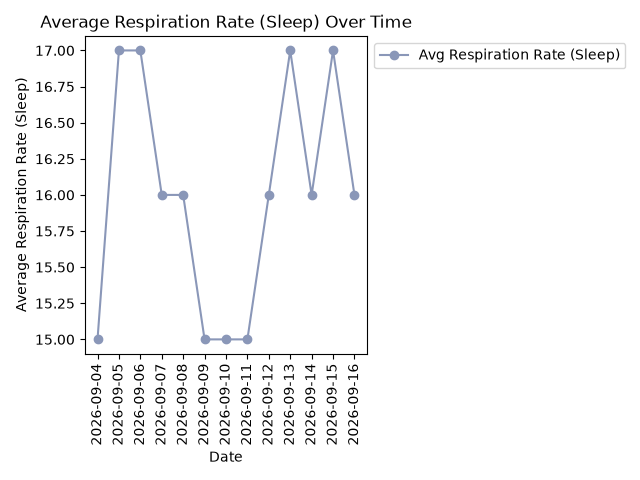
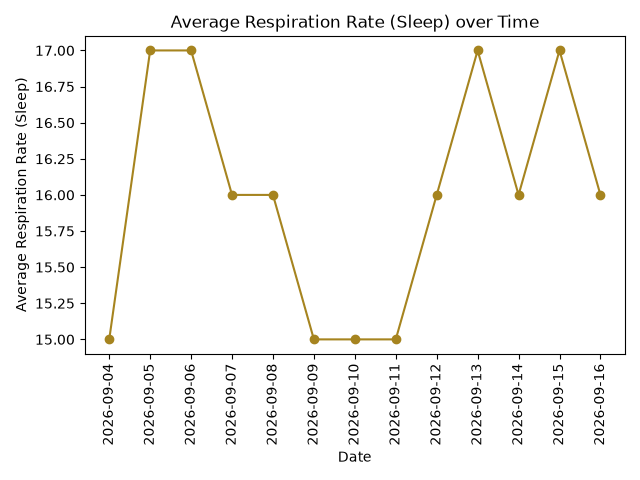
E.3: Upates to Visualizations and desciriptions

diff --git a/dataprep.html b/dataprep.html
@@ -123,11 +123,11 @@
   <div class="figure-grid">
     <figure class="figure">
   <img src="images/dataprep/raw-data-sample.png" alt="Sample of raw Garmin data showing missing SpO2 values" style="width:100%; display:block; border-radius:4px;">
-  <figcaption>Raw data: SpO2 columns show missing values for the first several days, before that tracking setting was enabled.</figcaption>
+  <figcaption>Raw data: Initially tracking was not enabled for the SpO2 metric. Additionally, for the first few days, there was not enough data to calculate the HRV average.</figcaption>
 </figure>
     <figure class="figure">
   <img src="images/dataprep/cleaned-data-sample.png" alt="Sample of cleaned Garmin data with no missing values" style="width:100%; display:block; border-radius:4px;">
-  <figcaption>Cleaned data: SpO2 columns removed, hrv weekly avg backfilled — no missing values remain.</figcaption>
+  <figcaption>Cleaned data: SpO2 columns were removed and HRV weekly avg was backfilled; no remaining missing values.</figcaption>
 </figure>
   </div>
 
@@ -142,27 +142,35 @@
   <div class="figure-grid">
     <figure class="figure">
   <img src="images/dataprep/sleep_stage_over_time_bar.png" alt="Stacked bar chart of sleep stage duration by night" style="width:100%; display:block; border-radius:4px;">
-  <figcaption>Light sleep makes up the largest share of most nights, with REM and deep sleep varying more night to night. Total sleep duration itself also swings noticeably, from under 5 hours to nearly 10.</figcaption>
+  <figcaption>The largest portion of most nights was classified as "Light Sleep". "REM" and "Deep Sleep" varied more night to night. Total sleep also has a wide range from under 5 hours to nearly 10.</figcaption>
 </figure>
     <figure class="figure">
-  <img src="images/dataprep/hrv_over_time_line.png" alt="Line chart of overnight HRV over time" style="width:100%; display:block; border-radius:4px;">
-  <figcaption>Overnight HRV ranges from 29 to 64 ms across the tracked period, with a clear peak on 9/9 — a night with zero recorded sleep interruptions and the highest REM total. The lowest value (9/13) corresponds to a night with heavy fragmentation and minimal REM.</figcaption>
+  <img src="images/dataprep/hrv_vs_next_day_stress_scatter.png" alt="Scatter plot of overnight HRV vs next-day average stress" style="width:100%; display:block; border-radius:4px;">
+  <figcaption>Data points show a general decrease in next-day stress as overnight HRV increases, however as more data is collected, this potential trend may change.</figcaption>
 </figure>
     <figure class="figure">
   <img src="images/dataprep/total_calories_vs_hrv_scatter.png" alt="Scatter plot of total calories versus overnight HRV" style="width:100%; display:block; border-radius:4px;">
-  <figcaption>No clear linear relationship is visible between total daily calories burned and that night's HRV in this small sample. The highest HRV reading occurs at a moderate calorie count, not at either extreme.</figcaption>
+  <figcaption>There does not appear to be any clear linear relationship between total daily calories burned and that night's HRV in the current data. The highest HRV reading occurs at a middle-level calorie count.</figcaption>
 </figure>
     <figure class="figure">
   <img src="images/dataprep/total_steps_vs_next_night_sleep_score_scatter.png" alt="Scatter plot of total steps versus next night's sleep score" style="width:100%; display:block; border-radius:4px;">
-  <figcaption>Sleep score is shifted forward one day so each day's steps line up with the following night's sleep score. The highest step-count days tend to precede lower sleep scores, while several of the lowest step-count days precede some of the best sleep scores recorded.</figcaption>
+  <figcaption><em>A majority of the nights with higher sleep scores are clustered under 10,000 steps. Though there are several points that fall outside of that cluster and therefore no real trend can be inferred.</em></figcaption>
 </figure>
     <figure class="figure">
   <img src="images/dataprep/body_battery_charged_vs_drained_bar.png" alt="Grouped bar chart of body battery charged versus drained by day" style="width:100%; display:block; border-radius:4px;">
-  <figcaption>Some days show drained clearly exceeding charged (9/4, 9/8, 9/11, 9/13), while others lean the opposite way (9/6, 9/9, 9/15, 9/16). No consistent surplus or deficit pattern appears across the full window.</figcaption>
+  <figcaption>Some days show drained clearly exceeding charged (9/4, 9/8, 9/11, 9/13), while others go the other way (9/6, 9/9, 9/15, 9/16). This data follows the daily activity/intensity levels.</figcaption>
 </figure>
     <figure class="figure">
-  <img src="images/dataprep/average_respiration_rate_sleep_over_time.png" alt="Line chart of average sleep respiration rate over time" style="width:100%; display:block; border-radius:4px;">
-  <figcaption>Average sleep respiration stays fairly narrow, mostly between 15 and 17 breaths per minute, which falls within the normal range for adults. There is no clear upward or downward trend across the tracked period.</figcaption>
+  <img src="images/dataprep/body_battery_drained_vs_next_night_sleep_score_scatter.png" alt="Scatter plot of body battery drained versus next night's sleep score" style="width:100%; display:block; border-radius:4px;">
+  <figcaption>Sleep score is shifted forward one day so each day's body battery drained lines up with the following night's sleep score. There appears to be a slight negative correlation between body battery drained and sleep score. The higher the loss in body battery (increased daily stress), the lower the sleep score that night.</figcaption>
+</figure>
+    <figure class="figure">
+  <img src="images/dataprep/average_respiration_rate_sleep_over_time.png" alt="Scatter plot of average sleep respiration rate over time" style="width:100%; display:block; border-radius:4px;">
+  <figcaption><em>A wide variety of respiration rates are observed across different nights. This is indicative of varying sleep quality and no consistent trends innately.</em></figcaption>
+</figure>
+    <figure class="figure">
+  <img src="images/dataprep/average_respiration_rate_sleep_vs_sleep_score.png" alt="Scatter plot of average sleep respiration rate versus sleep score" style="width:100%; display:block; border-radius:4px;">
+  <figcaption>With the exception of one outlier in this current dataset, there appears to be a general downward slope when comparing average sleep respiration rate to overall sleep score. As average sleep respiration rate decreases, overall sleep score tends to increase.</figcaption>
 </figure>
     <figure class="figure">
   <img src="images/dataprep/average_resting_heart_rate_over_time.png" alt="Line chart of average resting heart rate over time" style="width:100%; display:block; border-radius:4px;">
@@ -170,7 +178,7 @@
 </figure>
     <figure class="figure">
   <img src="images/dataprep/sleep_score_distribution.png" alt="Histogram of overall sleep score" style="width:100%; display:block; border-radius:4px;">
-  <figcaption>Sleep scores skew toward the higher end, with most nights landing between 70 and 90. A smaller cluster of lower scores in the high 30s to high 40s pulls the low end of the distribution.</figcaption>
+  <figcaption>Sleep scores are left skewed. Most nights land between a 70 and a 90 overall sleep score. A smaller cluster of lower sleep quality nights pull the low end of the distribution to the left.</figcaption>
 </figure>
     <figure class="figure">
   <img src="images/dataprep/recovery_metrics_boxplots.png" alt="Boxplots comparing overall sleep score, average sleep stress, deep sleep percent, and REM sleep percent" style="width:100%; display:block; border-radius:4px;">
@@ -178,11 +186,11 @@
 </figure>
     <figure class="figure">
   <img src="images/dataprep/correlation_heatmap.png" alt="Correlation heatmap of twelve key recovery and activity metrics" style="width:100%; display:block; border-radius:4px;">
-  <figcaption>HRV and overall sleep score both correlate strongly and negatively with stress and heart rate metrics, forming a coherent recovery cluster. Deep sleep percent stands apart, showing consistently weaker correlations with every other metric in this set.</figcaption>
+  <figcaption>HRV and overall sleep score both correlate strongly and negatively with stress and heart rate metrics, forming a coherent recovery cluster. Deep sleep percent is also a standout, showing consistently weaker correlations with every other metric, indicating this sleep stage may be the most important in terms of next day recovery.</figcaption>
 </figure>
     <figure class="figure">
   <img src="images/dataprep/intensity_minutes_by_day.png" alt="Grouped bar chart of moderate and vigorous intensity minutes by day" style="width:100%; display:block; border-radius:4px;">
-  <figcaption>Vigorous activity dominates on most active days, while moderate-intensity minutes rarely appear except on 9/6 and 9/7. Several days show no recorded intensity minutes at all, reflecting genuine rest days rather than missing data.</figcaption>
+  <figcaption>Vigorous activity dominates on most active days, while moderate-intensity minutes rarely appear except on 9/6 and 9/7. Days that show no intensity levels are representative of genuine rest days rather than missing data.</figcaption>
 </figure>
   </div>
 </div>

diff --git a/scripts/visualizations.py b/scripts/visualizations.py
@@ -27,20 +27,16 @@ plt.savefig("../images/dataprep/sleep_stage_over_time_bar.png")
 plt.close()
 
 ### Visualization #2 ###
-### Overnight HRV Over Time ###
-
-hrv_last_night_avg = clean_data["hrv last night avg"]
+### Overnight HRV vs Average Daily Stress ###
 
 fig, ax = plt.subplots()
-ax.plot(clean_data["date"], hrv_last_night_avg, label="Overnight HRV (Avg)", marker='o', color="#8A97B8")
-ax.set_title("Overnight HRV Over Time")
-ax.set_ylabel("Average HRV (ms)")
-ax.set_xlabel("Date")
-ax.legend(loc="upper left", bbox_to_anchor=(1, 1))
+ax.scatter(clean_data["hrv last night avg"], clean_data["avg stress"], color="#9C4438")
+ax.set_title("Overnight HRV vs. Next-Day Average Stress")
+ax.set_xlabel("Overnight HRV (ms)")
+ax.set_ylabel("Next-Day Average Stress")
 
-plt.xticks(rotation = 45)
 plt.tight_layout()
-plt.savefig("../images/dataprep/hrv_over_time_line.png")
+plt.savefig("../images/dataprep/hrv_vs_next_day_stress_scatter.png")
 plt.close()
 
 
@@ -48,7 +44,7 @@ plt.close()
 ### Total Calories vs HRV (Scatterplot) ###
 
 fig, ax = plt.subplots()
-ax.scatter(clean_data["total calories"], clean_data["hrv last night avg"], label="Total Calories vs HRV", color="#8A97B8")
+ax.scatter(clean_data["total calories"], clean_data["hrv last night avg"], label="Total Calories vs HRV", color="#9C4438")
 ax.set_title("Total Calories vs Overnight HRV (Avg)")
 ax.set_ylabel("Overnight HRV (Avg)")
 ax.set_xlabel("Total Calories")
@@ -67,7 +63,6 @@ ax.scatter(clean_data["total steps"], clean_data["overall sleep score"].shift(-1
 ax.set_title("Total Steps vs Next Night Sleep Score")
 ax.set_ylabel("Next Night Sleep Score")
 ax.set_xlabel("Total Steps")
-ax.legend(loc="upper left", bbox_to_anchor=(1, 1))
 
 plt.xticks(rotation = 45)
 plt.tight_layout()
@@ -88,14 +83,27 @@ plt.savefig("../images/dataprep/body_battery_charged_vs_drained_bar.png")
 plt.close()
 
 ### Visualization #6 ###
-### Average Respiration Rate (Sleep) Over Time ###
+### Body Battery Drained vs. Overall Sleep Score ###
 
 fig, ax = plt.subplots()
-ax.plot(clean_data["date"],clean_data["avg respiration (sleep)"],label="Avg Respiration Rate (Sleep)",marker = "o", color="#8A97B8")
-ax.set_title("Average Respiration Rate (Sleep) Over Time")
+ax.scatter(clean_data["body battery drained"], clean_data["overall sleep score"].shift(-1), label="Body Battery Drained vs Next Night Sleep Score", color="#1B2340")
+ax.set_title("Body Battery Drained vs Next Night Sleep Score")
+ax.set_ylabel("Next Night Sleep Score")
+ax.set_xlabel("Body Battery Drained")
+
+plt.xticks(rotation = 45)
+plt.tight_layout()
+plt.savefig("../images/dataprep/body_battery_drained_vs_next_night_sleep_score_scatter.png")
+plt.close()
+
+### Visualization #7 ###
+### Average Respiration Rate (Sleep) over Time ###
+
+fig, ax = plt.subplots()
+ax.plot(clean_data["date"],clean_data["avg respiration (sleep)"],label="Avg Respiration Rate (Sleep)",marker = "o", color="#A6841F")
+ax.set_title("Average Respiration Rate (Sleep) over Time")
 ax.set_xlabel("Date")
 ax.set_ylabel("Average Respiration Rate (Sleep)")
-ax.legend(loc="upper left", bbox_to_anchor=(1, 1))
 
 plt.xticks(rotation = 90)
 plt.tight_layout()
@@ -103,11 +111,26 @@ plt.savefig("../images/dataprep/average_respiration_rate_sleep_over_time.png")
 plt.close()
 
 
-### Visualization #7 ###
+### Visualization #8 ###
+### Average Respiration Rate (Sleep) vs Overall Sleep Score ###
+
+fig, ax = plt.subplots()
+ax.scatter(clean_data["overall sleep score"],clean_data["avg respiration (sleep)"],label="Avg Respiration Rate (Sleep)",marker = "o", color="#A6841F")
+ax.set_title("Average Respiration Rate (Sleep) vs Sleep Score")
+ax.set_xlabel("Overall Sleep Score")
+ax.set_ylabel("Average Respiration Rate (Sleep)")
+
+plt.xticks(rotation = 90)
+plt.tight_layout()
+plt.savefig("../images/dataprep/average_respiration_rate_sleep_vs_sleep_score.png")
+plt.close()
+
+
+### Visualization #9 ###
 ### Average Resting Heart Rate Over Time ###
 
 fig, ax = plt.subplots()
-ax.plot(clean_data["date"],clean_data["resting heart rate (overnight)"],label="Avg Resting Heart Rate",marker = "o", color="#8A97B8")
+ax.plot(clean_data["date"],clean_data["resting heart rate (overnight)"],label="Avg Resting Heart Rate",marker = "o", color="#9C4438")
 ax.set_title("Average Resting Heart Rate Over Time")
 ax.set_xlabel("Date")
 ax.set_ylabel("Average Resting Heart Rate")
@@ -119,11 +142,11 @@ plt.savefig("../images/dataprep/average_resting_heart_rate_over_time.png")
 plt.close()
 
 
-### Visualization #8 ###
+### Visualization #10 ###
 ### Sleep Score Distribution ###
 
 fig, ax = plt.subplots()
-ax.hist(clean_data["overall sleep score"], bins=5, color="#8A97B8", alpha=0.7)
+ax.hist(clean_data["overall sleep score"], bins=5, color="#A6841F", alpha=0.7)
 ax.set_title("Sleep Score Distribution")
 ax.set_xlabel("Sleep Score")
 
@@ -132,7 +155,7 @@ plt.savefig("../images/dataprep/sleep_score_distribution.png")
 plt.close()
 
 
-### Visualization #9 ###
+### Visualization #11 ###
 ### Recovery Metric Boxplots ###
 plot_data = [
     clean_data["overall sleep score"],
@@ -153,7 +176,7 @@ plt.savefig("../images/dataprep/recovery_metrics_boxplots.png")
 plt.close()
 
 
-### Visualization #10 ###
+### Visualization #12 ###
 ### Correlation Heat Map ###
 
 # From the eda_exploration notebook:
@@ -164,7 +187,7 @@ corr_columns = [
     "avg sleep stress",
     "resting heart rate",
     "total steps",
-    "avg sleep respiration",
+    "avg respiration (sleep)",
     "body battery charged",
     "max heart rate",
     "deep sleep percent",
@@ -182,7 +205,7 @@ plt.savefig("../images/dataprep/correlation_heatmap.png")
 plt.close()
 
 
-### Visualization #11 ###
+### Visualization #13 ###
 ### Intensity Minutes by Day###
 
 fig, ax = plt.subplots()

diff --git a/scripts/main.py b/scripts/main.py
@@ -1,0 +1,5 @@
+import subprocess
+    
+subprocess.run(["python", "garmin_pull.py"])
+subprocess.run(["python", "garmin_clean.py"])
+subprocess.run(["python", "visualizations.py"])
